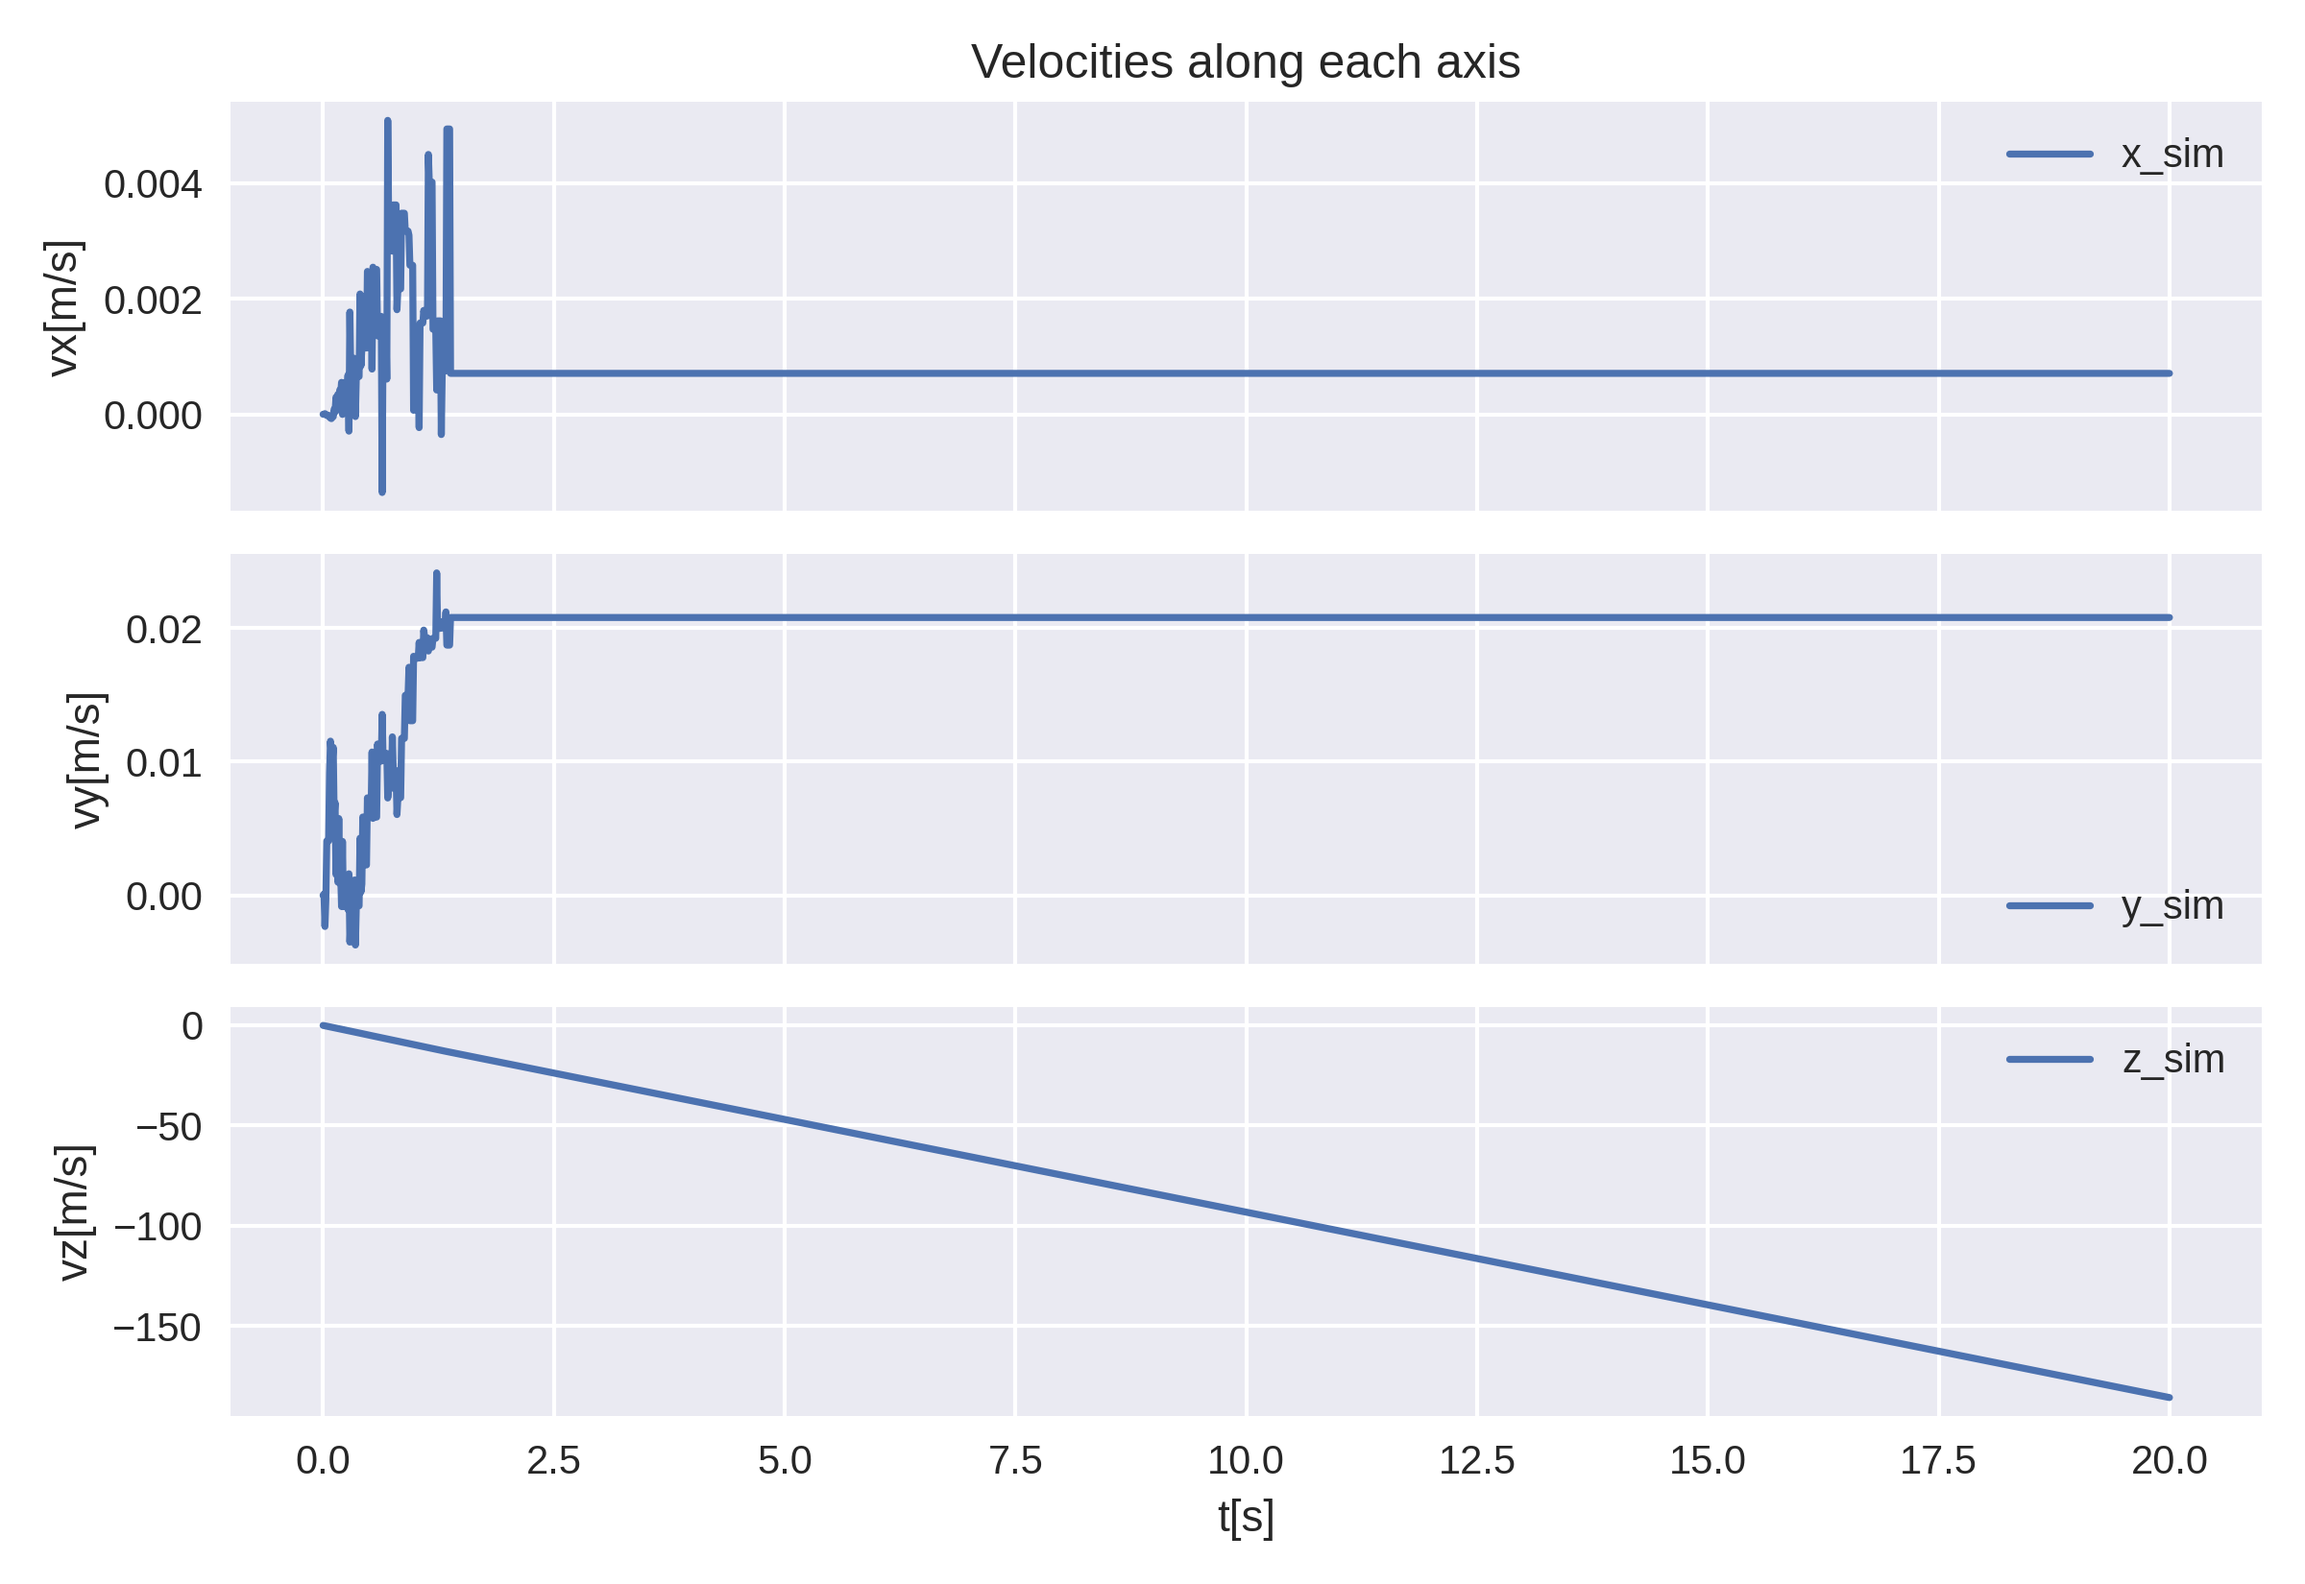
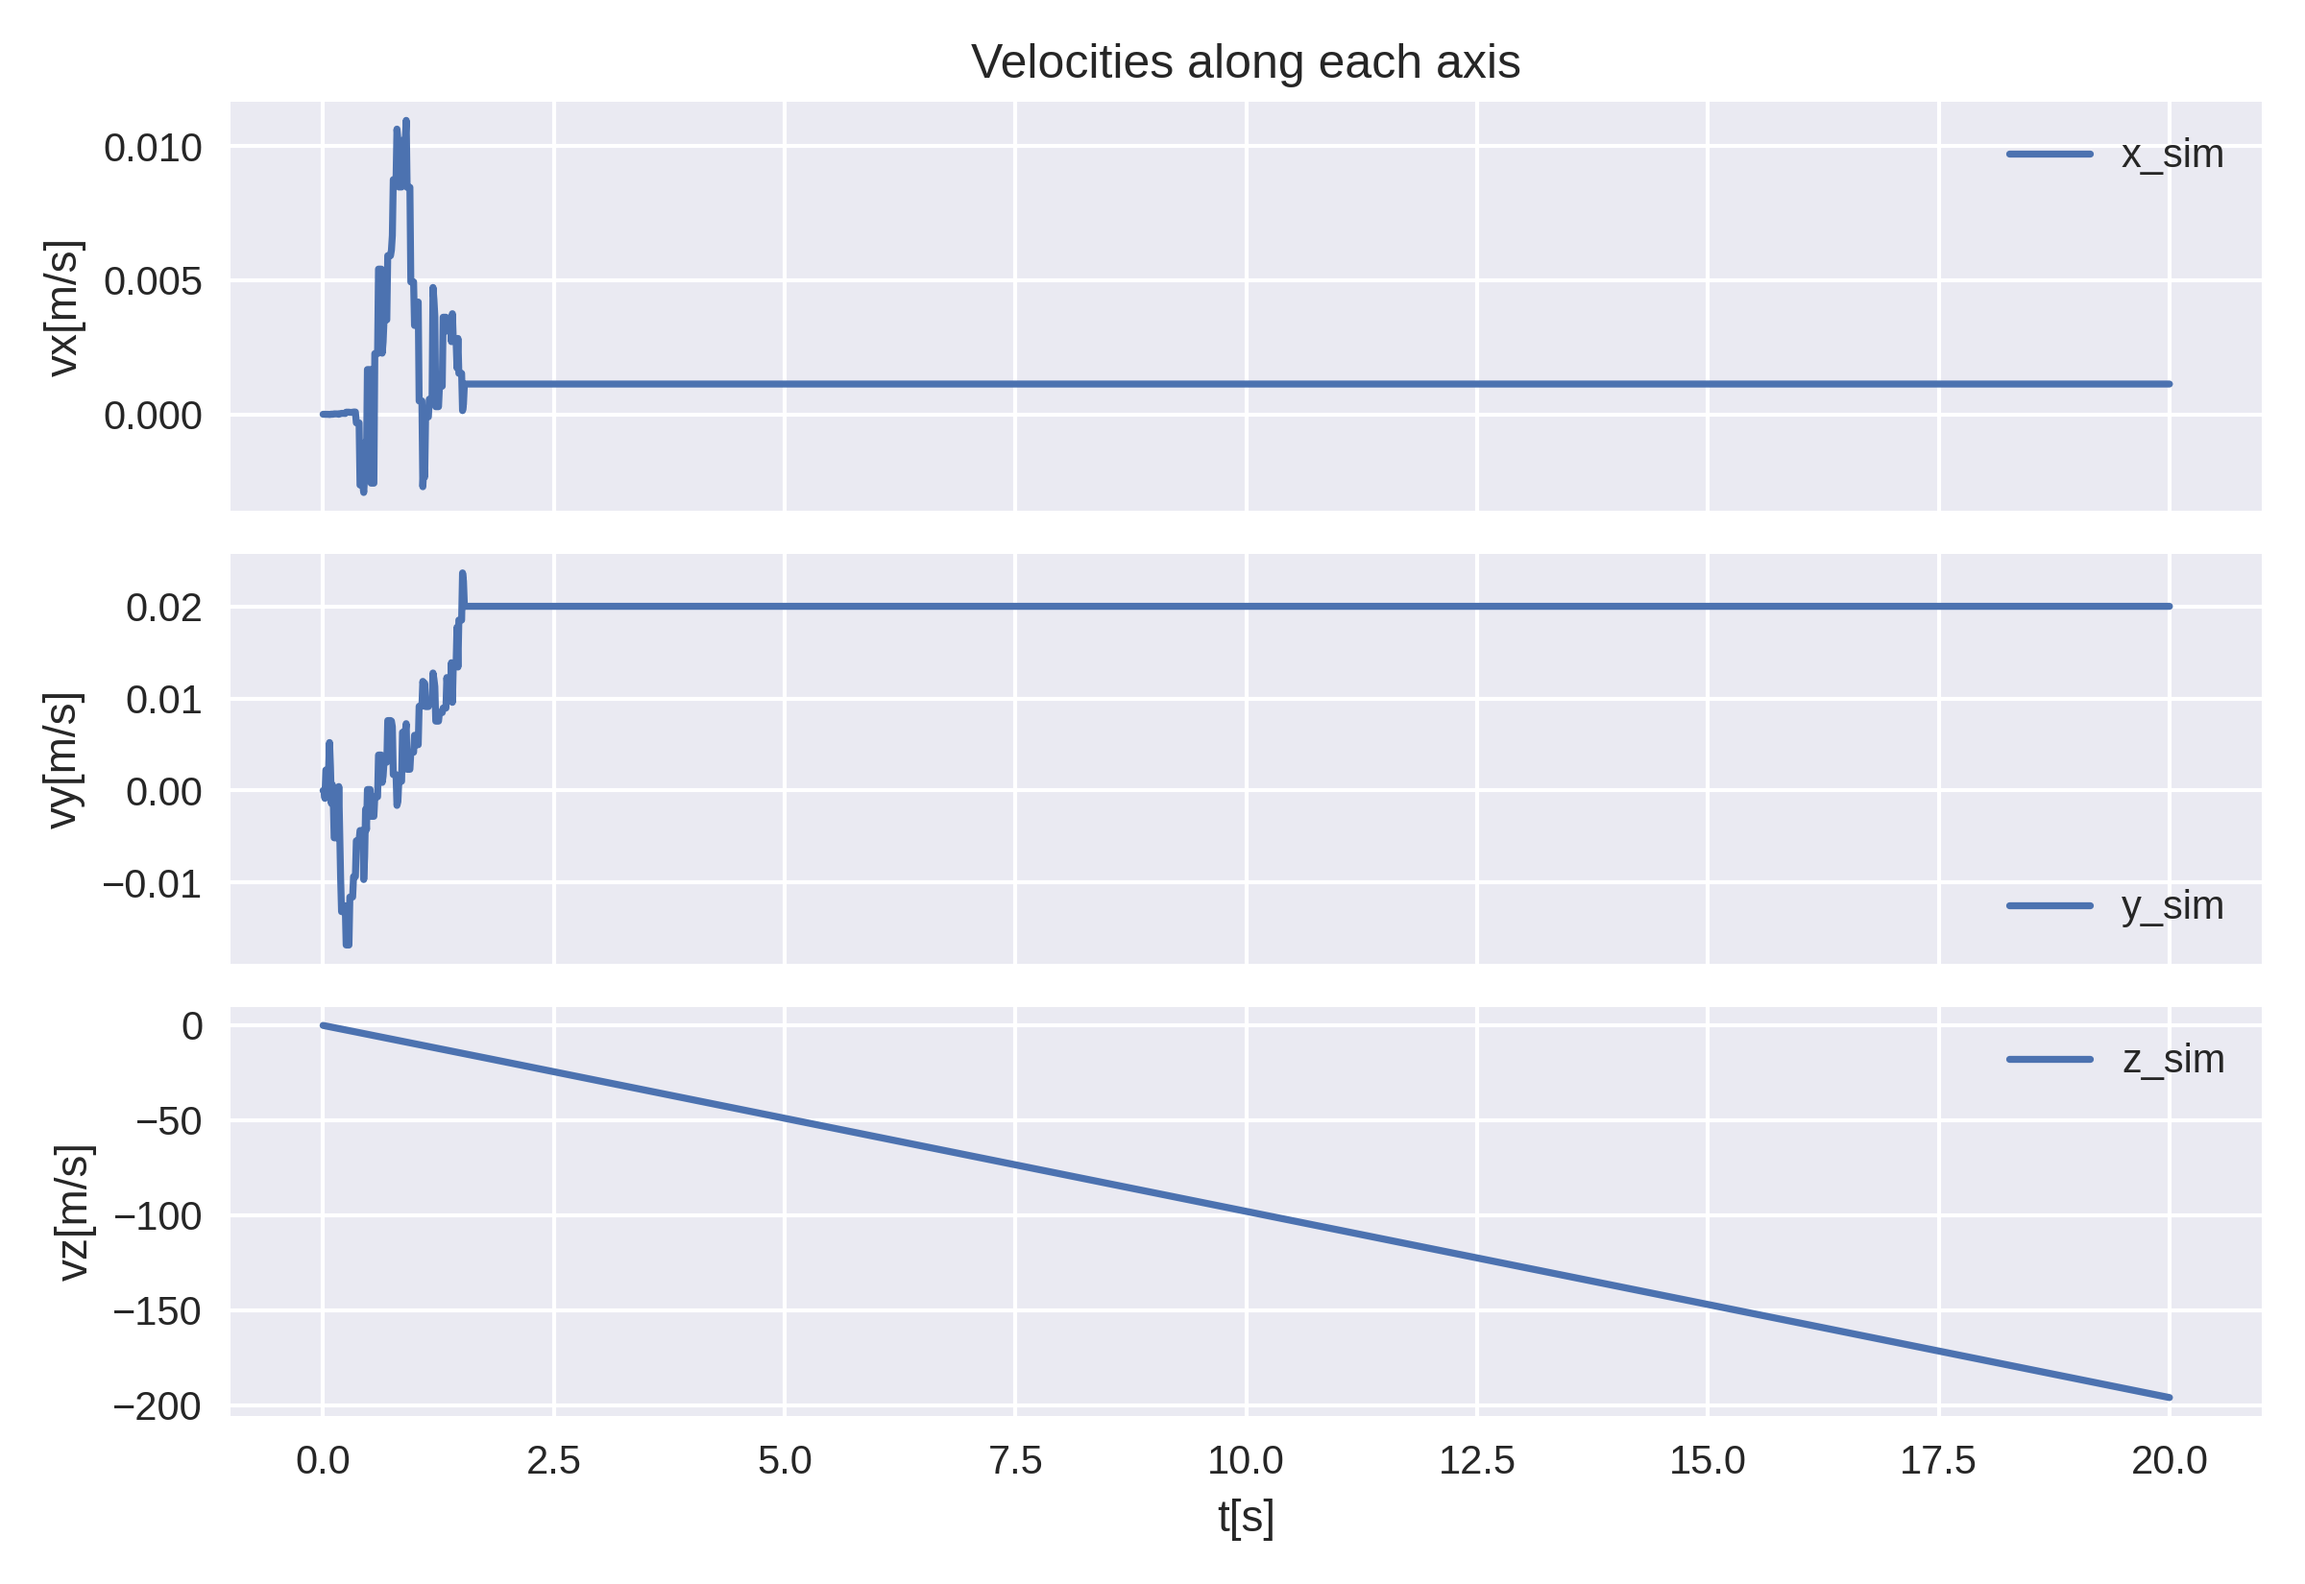
position_mpc not working

diff --git a/position_mpc/c_generated_code/acados_solver_Translational_drone.c b/position_mpc/c_generated_code/acados_solver_Translational_drone.c
@@ -522,7 +522,7 @@ int Translational_drone_acados_create(nlp_solver_capsule * capsule)
 
     double yref_0[NY0];
     
-    yref_0[0] = 1;
+    yref_0[0] = 0.5;
     yref_0[1] = 0;
     yref_0[2] = 1;
     yref_0[3] = 0;
@@ -663,7 +663,7 @@ int Translational_drone_acados_create(nlp_solver_capsule * capsule)
 
     double yref[NY];
     
-    yref[0] = 1;
+    yref[0] = 0.5;
     yref[1] = 0;
     yref[2] = 1;
     yref[3] = 0;
@@ -961,7 +961,7 @@ int Translational_drone_acados_create(nlp_solver_capsule * capsule)
 
     double yref_e[NYN];
     
-    yref_e[0] = 1;
+    yref_e[0] = 0.5;
     yref_e[1] = 0;
     yref_e[2] = 1;
     yref_e[3] = 0;
@@ -1067,8 +1067,8 @@ int Translational_drone_acados_create(nlp_solver_capsule * capsule)
     double lbx0[6];
     double ubx0[6];
     
-    lbx0[0] = 1;
-    ubx0[0] = 1;
+    lbx0[0] = 0.5;
+    ubx0[0] = 0.5;
     lbx0[1] = 0;
     ubx0[1] = 0;
     lbx0[2] = 1;
@@ -1232,7 +1232,7 @@ int Translational_drone_acados_create(nlp_solver_capsule * capsule)
 
     // initialize with x0
     
-    x0[0] = 1;
+    x0[0] = 0.5;
     x0[1] = 0;
     x0[2] = 1;
     x0[3] = 0;

diff --git a/position_mpc/main.py b/position_mpc/main.py
@@ -8,9 +8,9 @@ from utils import *
 from trajectory import *
 
 
-Tf = 1  # prediction horizon
-N = 100  # number of discretization steps
-T = 20.00  # simulation time[s]
+Tf = 1       # prediction horizon
+N = 100       # number of discretization steps
+T = 20.00    # simulation time[s]
 Ts = Tf / N  # sampling time[s]
 
 # noise bool
@@ -30,7 +30,6 @@ ny = nx + nu
 Nsim = int(T * N / Tf)
 
 # initialize data structs
-predX = np.ndarray((Nsim+1, nx))
 simX = np.ndarray((Nsim+1, nx))
 simU = np.ndarray((Nsim, nu))
 tot_comp_sum = 0
@@ -38,7 +37,7 @@ tcomp_max = 0
 
 # creating a reference trajectory
 traj = 0 # traj = 0: circular trajectory, traj = 1: spiral trajectory
-show_ref_traj = False
+show_ref_traj = True
 N_steps, x, y, z = trajectory_generator(T, Nsim, traj, show_ref_traj)
 ref_traj = np.stack((x,y,z),1)
 
@@ -85,7 +84,7 @@ for i in range(Nsim):
     # stacking u0 again
     u0 = np.append(Thrust,quaternion)
 
-    # storing results from acados solver
+    # storing inputs
     simU[i,:] = u0
 
     # simulate the system

diff --git a/position_mpc/acados_settings.py b/position_mpc/acados_settings.py
@@ -82,7 +82,7 @@ def acados_settings(Ts, Tf, N):
     ocp.cost.Vx_e = Vx_e
     
     # Initial reference trajectory (can be overwritten during the simulation if required)
-    x_ref = np.array([1.0, 0.0, 1.0, 0.0, 0.0, 0.0])
+    x_ref = np.array([0.5, 0.0, 1.0, 0.0, 0.0, 0.0])
     ocp.cost.yref   = np.concatenate((x_ref, np.array([model.params.m * g, 1.0, 0.0, 0.0, 0.0])))
 
     ocp.cost.yref_e = x_ref

diff --git a/position_mpc/trajectory.py b/position_mpc/trajectory.py
@@ -6,8 +6,8 @@ def trajectory_generator(T_final, N, traj=0, show_traj=False):
     '''
     Generates a circular trajectory given a final time and a sampling time 
     '''
-    r = 1 # radius
-    th = np.linspace(0,6*np.pi,N)
+    r = 0.5 # radius
+    th = np.linspace(0,2*np.pi,N)
     c_x, c_y = [0,0] # center coordinates 
     ## circular trajectory
     if traj ==0: 

diff --git a/position_mpc/drone_model.py b/position_mpc/drone_model.py
@@ -68,7 +68,7 @@ def drone_model():
     model.throttle_max = 57e-3 * g 
     
     # define initial condition
-    model.x0 = np.array([1.0, 0.0, 1.0, 0.0, 0.0, 0.0])
+    model.x0 = np.array([0.5, 0.0, 1.0, 0.0, 0.0, 0.0])
 
     # define model struct
     params = types.SimpleNamespace()

diff --git a/position_mpc/utils.py b/position_mpc/utils.py
@@ -77,7 +77,7 @@ def add_measurement_noise(xcurrent):
 
 
 
-def add_input_noise(xcurrrent):
+def add_input_noise(u0,model):
     # Apply noise to inputs (uniformly distributed noise with standard deviation proportional to input magnitude)
     T = np.array([u0[0]])
     q = u0[1:]

diff --git a/position_mpc/c_generated_code/main_Translational_drone.c b/position_mpc/c_generated_code/main_Translational_drone.c
@@ -73,8 +73,8 @@ int main()
 
     double lbx0[6];
     double ubx0[6];
-    lbx0[0] = 1;
-    ubx0[0] = 1;
+    lbx0[0] = 0.5;
+    ubx0[0] = 0.5;
     lbx0[1] = 0;
     ubx0[1] = 0;
     lbx0[2] = 1;

diff --git a/position_mpc/plotFnc.py b/position_mpc/plotFnc.py
@@ -199,6 +199,7 @@ def plotAngleInputs(t,simU,eulerAngles,save=False):
 
 
     ax1.legend()
+    ax1.set_title('Inputs: Angles')
     ax1.set_ylabel('q')
     
     ax2.legend()
